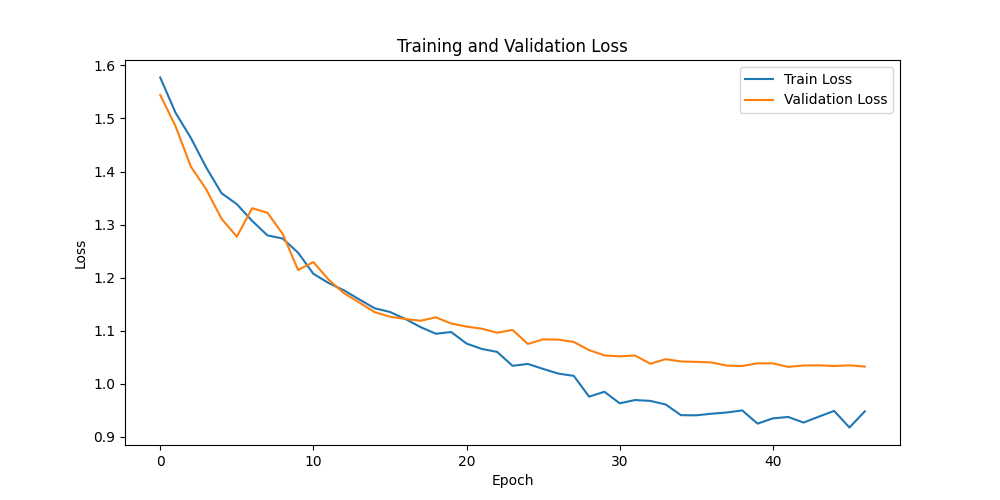
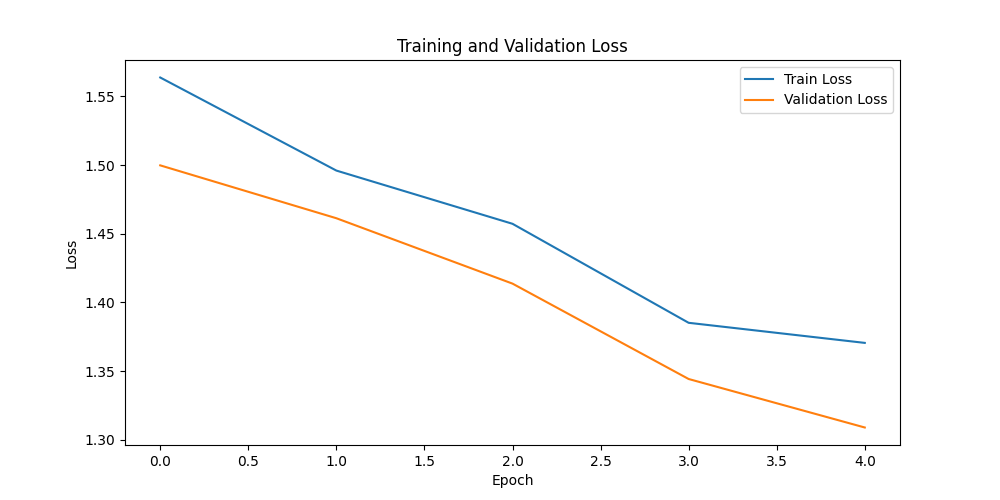
test loss and reports added

diff --git a/src/scripts/run_training.py b/src/scripts/run_training.py
@@ -7,7 +7,7 @@ import seaborn as sns
 import numpy as np
 import pandas as pd
 from torch.optim.lr_scheduler import ReduceLROnPlateau
-from sklearn.metrics import confusion_matrix
+from sklearn.metrics import confusion_matrix, classification_report
 
 from src.model.base_models import Wav2Vec2FeatureExtractor
 from src.model.model import SERBenchmarkModel
@@ -18,7 +18,7 @@ from src.utils.dataset import SpeechEmotionDataset
 # Hyperparameters
 BATCH_SIZE = int(os.getenv("BATCH_SIZE", 32))
 LEARNING_RATE = float(os.getenv("LEARNING_RATE", 0.001))
-EPOCHS = int(os.getenv("EPOCHS", 50))
+EPOCHS = int(os.getenv("EPOCHS", 5))
 EARLY_STOPPING_PATIENCE = int(os.getenv("EARLY_STOPPING_PATIENCE", 5))
 CHECKPOINT_PATH = os.getenv("CHECKPOINT_PATH", "./checkpoints/model.pth")
 
@@ -37,26 +37,32 @@ def plot_loss(train_losses, val_losses):
     plt.savefig("./logs/loss_curve.png")
     plt.close()
 
-def plot_confusion_matrix(y_true, y_pred, classes):
+def plot_confusion_matrix(y_true, y_pred, classes, phase):
     cm = confusion_matrix(y_true, y_pred)
     plt.figure(figsize=(8, 6))
     sns.heatmap(cm, annot=True, fmt='d', cmap='Blues', xticklabels=classes, yticklabels=classes)
     plt.xlabel("Predicted Label")
     plt.ylabel("True Label")
-    plt.title("Confusion Matrix")
-    plt.savefig("./logs/confusion_matrix.png")
+    plt.title(f"{phase} Confusion Matrix")
+    plt.savefig(f"./logs/{phase}_confusion_matrix.png")
     plt.close()
+
+def print_classification_report(y_true, y_pred, phase):
+    report = classification_report(y_true, y_pred, target_names=[str(i) for i in range(5)])
+    with open(f"./logs/{phase}_classification_report.txt", "w") as f:
+        f.write(report)
 
 def train(model, dataloaders, criterion, optimizer, scheduler, device):
     best_loss = float("inf")
     patience_counter = 0
     train_losses, val_losses = [], []
-    y_true, y_pred = [], []
+    y_true_val, y_pred_val = [], []
+    y_true_test, y_pred_test = [], []
 
     for epoch in range(EPOCHS):
         print(f"\nEpoch {epoch+1}/{EPOCHS}")
         
-        for phase in ["train", "val"]:
+        for phase in ["train", "val", "test"]:
             if phase not in dataloaders:
                 continue
             
@@ -77,9 +83,13 @@ def train(model, dataloaders, criterion, optimizer, scheduler, device):
                         loss.backward()
                         optimizer.step()
                     
-                    if phase == "val":
-                        y_true.extend(labels.cpu().numpy())
-                        y_pred.extend(torch.argmax(outputs, dim=1).cpu().numpy())
+                    if phase in ["val", "test"]:
+                        if phase == "val":
+                            y_true_val.extend(labels.cpu().numpy())
+                            y_pred_val.extend(torch.argmax(outputs, dim=1).cpu().numpy())
+                        else:
+                            y_true_test.extend(labels.cpu().numpy())
+                            y_pred_test.extend(torch.argmax(outputs, dim=1).cpu().numpy())
                 
                 running_loss += loss.item() * audio.size(0)
             
@@ -89,24 +99,31 @@ def train(model, dataloaders, criterion, optimizer, scheduler, device):
             if phase == "train":
                 train_losses.append(epoch_loss)
             else:
-                val_losses.append(epoch_loss)
-                scheduler.step(epoch_loss)
-                
-                if epoch_loss < best_loss:
-                    best_loss = epoch_loss
-                    patience_counter = 0
-                    print("Saving best model...")
-                    torch.save(model.state_dict(), CHECKPOINT_PATH)
-                else:
-                    patience_counter += 1
-                    if patience_counter >= EARLY_STOPPING_PATIENCE:
-                        print("Early stopping triggered!")
-                        plot_loss(train_losses, val_losses)
-                        plot_confusion_matrix(y_true, y_pred, classes=[0, 1, 2, 3, 4])
-                        return
-    
+                if phase == "val":
+                    val_losses.append(epoch_loss)
+                    scheduler.step(epoch_loss)
+                    
+                    if epoch_loss < best_loss:
+                        best_loss = epoch_loss
+                        patience_counter = 0
+                        print("Saving best model...")
+                        torch.save(model.state_dict(), CHECKPOINT_PATH)
+                    else:
+                        patience_counter += 1
+                        if patience_counter >= EARLY_STOPPING_PATIENCE:
+                            print("Early stopping triggered!")
+                            plot_loss(train_losses, val_losses)
+                            plot_confusion_matrix(y_true_val, y_pred_val, classes=[0, 1, 2, 3, 4], phase="val")
+                            print_classification_report(y_true_val, y_pred_val, phase="val")
+                            plot_confusion_matrix(y_true_test, y_pred_test, classes=[0, 1, 2, 3, 4], phase="test")
+                            print_classification_report(y_true_test, y_pred_test, phase="test")
+                            return
+
     plot_loss(train_losses, val_losses)
-    plot_confusion_matrix(y_true, y_pred, classes=[0, 1, 2, 3, 4])
+    plot_confusion_matrix(y_true_val, y_pred_val, classes=[0, 1, 2, 3, 4], phase="val")
+    print_classification_report(y_true_val, y_pred_val, phase="val")
+    plot_confusion_matrix(y_true_test, y_pred_test, classes=[0, 1, 2, 3, 4], phase="test")
+    print_classification_report(y_true_test, y_pred_test, phase="test")
 
 if __name__ == "__main__":
     device = torch.device("cuda" if torch.cuda.is_available() else "cpu")
@@ -117,7 +134,6 @@ if __name__ == "__main__":
     )
     
     dataloaders = get_dataloader(dataset, BATCH_SIZE, shuffle=True, val_split=True)
-
     feature_extractor = Wav2Vec2FeatureExtractor(device=device)
     
     model = SERBenchmarkModel(feature_extractor=feature_extractor, num_classes=5, device=device).to(device)
